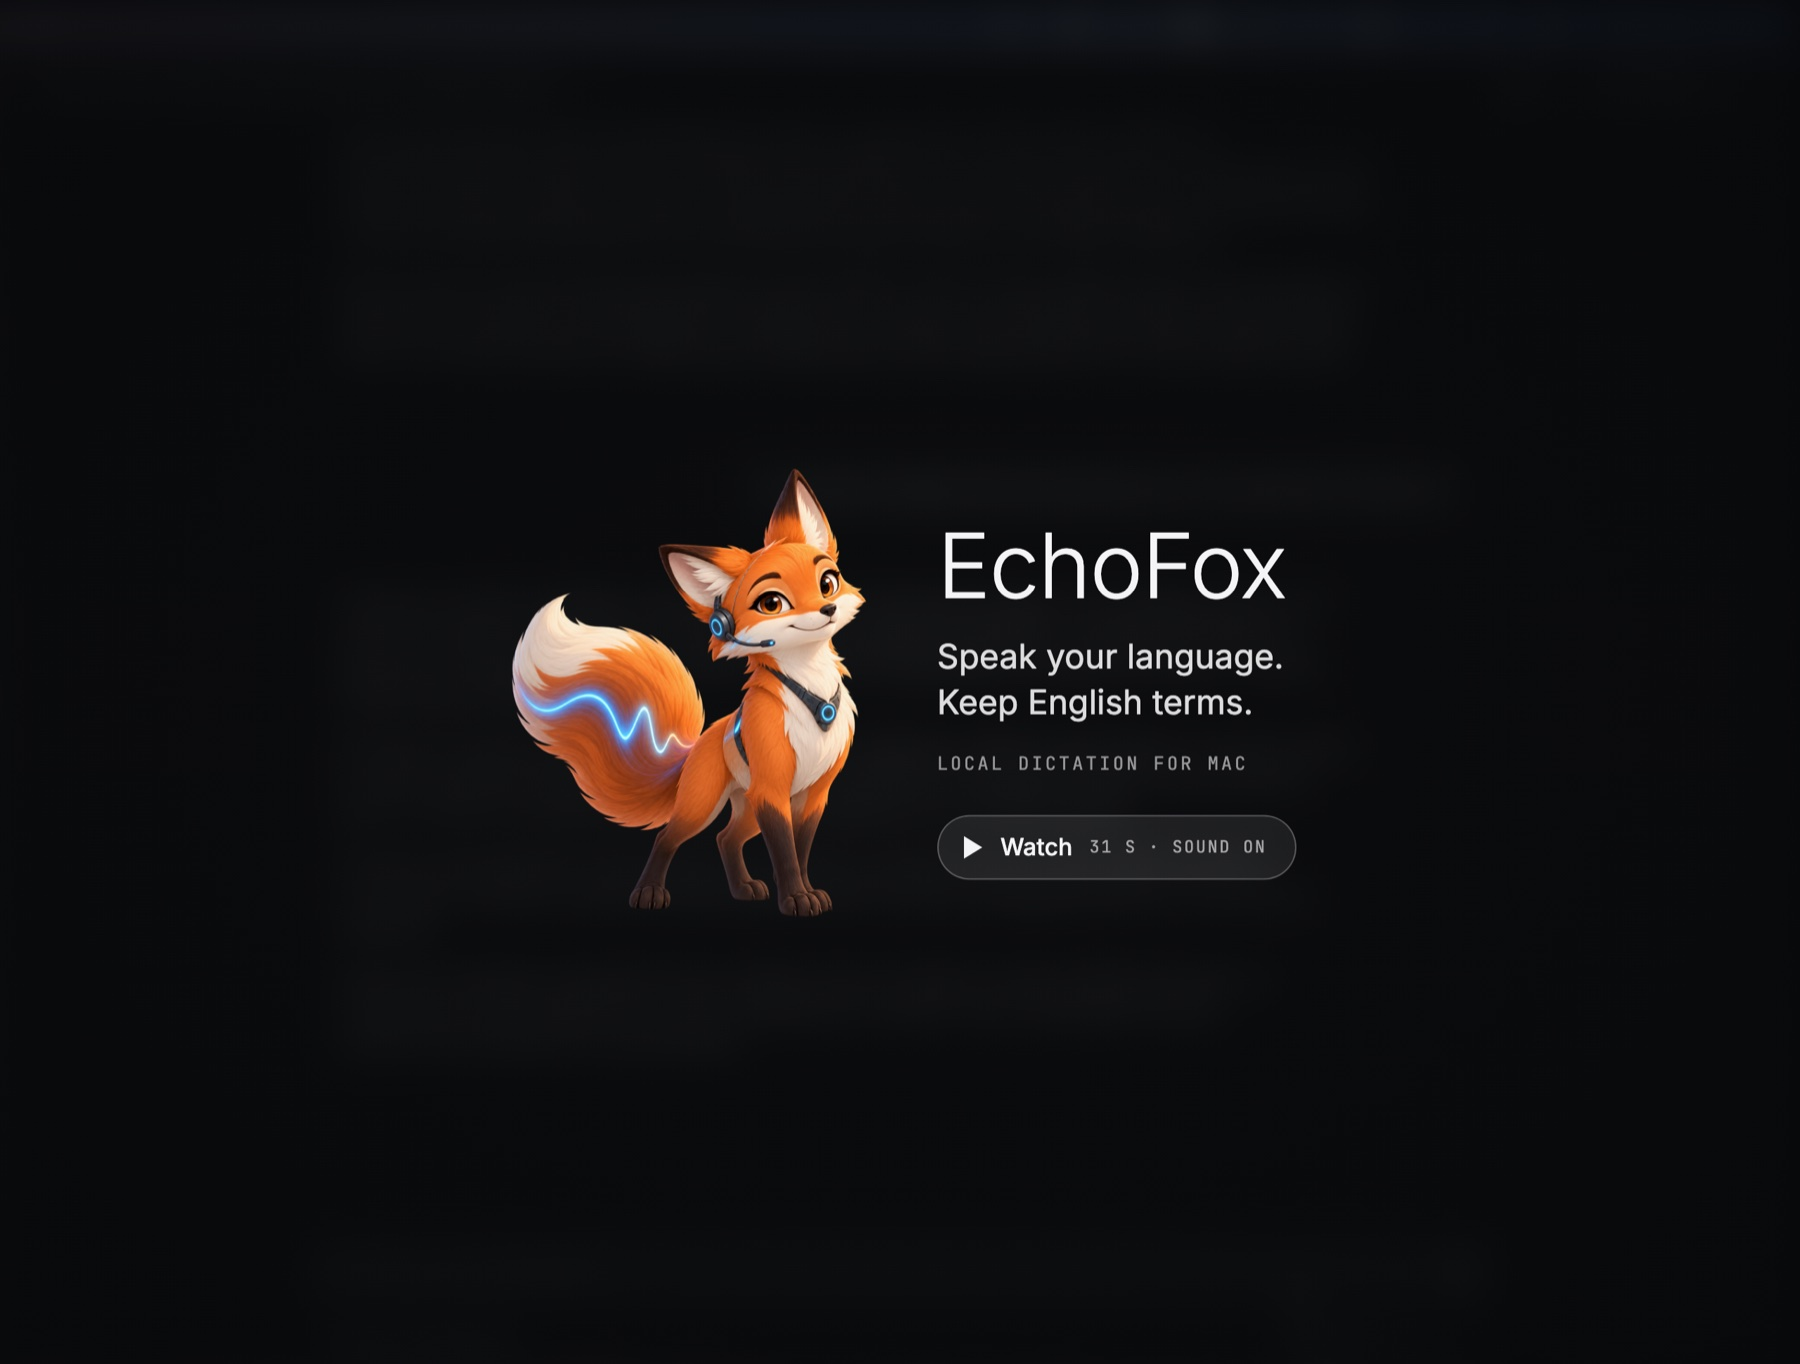
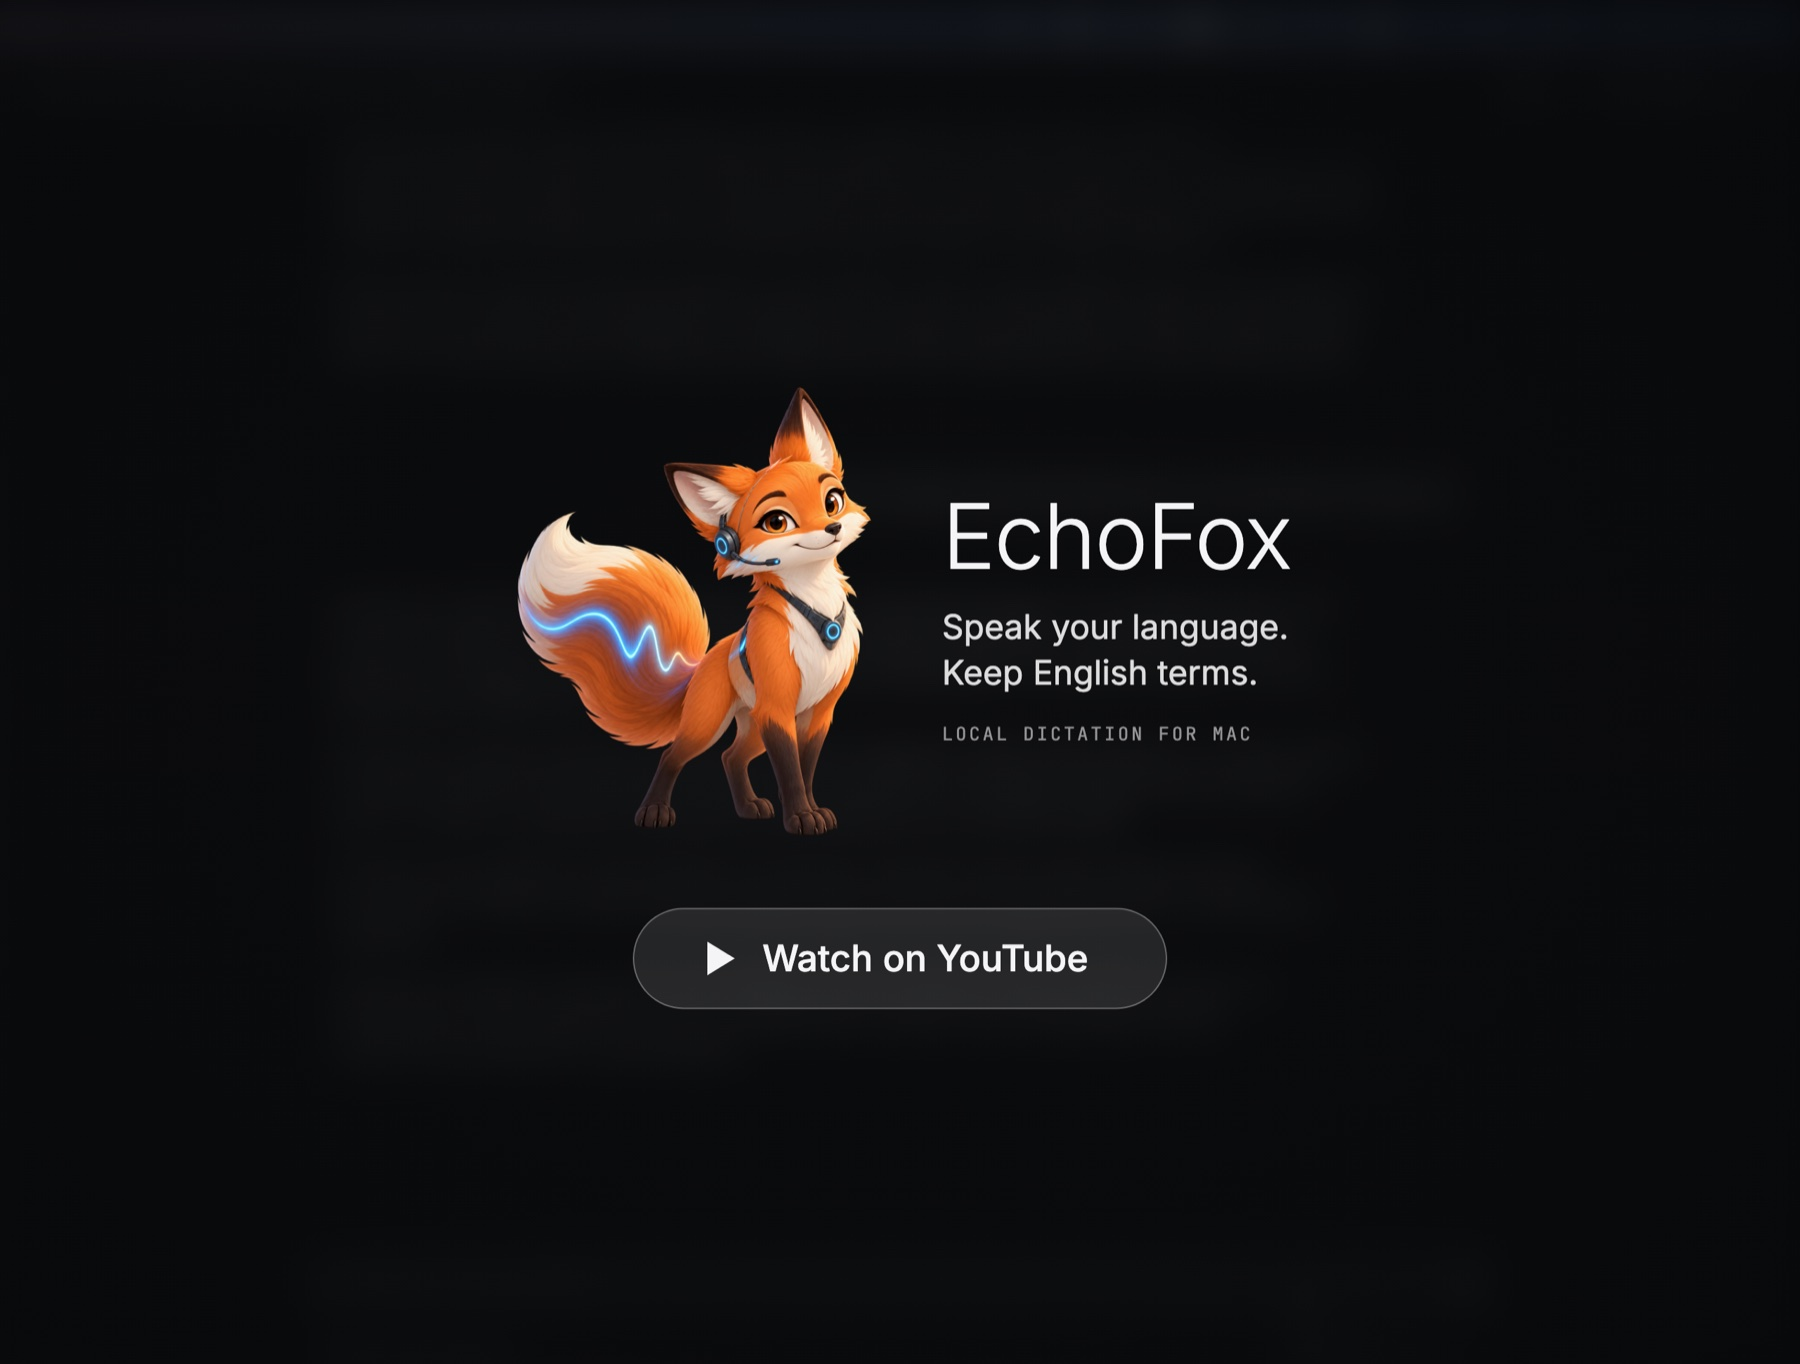
README: the demo's cover with a Watch on YouTube button under the fox and the words

Changed region(s): [[0.28, 0.2771, 0.7156, 0.739]]

diff --git a/README.md b/README.md
@@ -10,7 +10,7 @@ Private, on-device dictation for Mac, built for conversations where your languag
 
 ## How it works
 
-<p align="center"><a href="https://youtu.be/Cb5VOnisPvM"><img src="img/demo-cover.jpg" width="480" alt="EchoFox demo on YouTube: one dictation into Claude Code, 31 seconds, sound on"></a></p>
+<p align="center"><a href="https://youtu.be/Cb5VOnisPvM"><img src="img/demo-cover.jpg" width="480" alt="Watch the EchoFox demo on YouTube: one dictation into Claude Code, 31 seconds, with sound"></a></p>
 
 <picture>
   <source media="(prefers-color-scheme: dark)" srcset="img/how-it-works-dark.svg">
